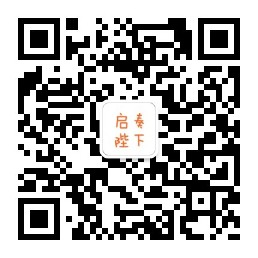
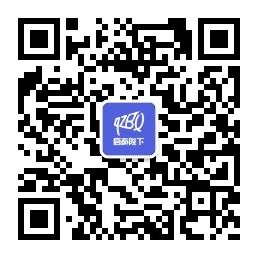
更新细节

Changed region(s): [[0.3721, 0.3721, 0.6202, 0.6202]]

diff --git a/_includes/header.html b/_includes/header.html
@@ -12,9 +12,7 @@
       {% endif %}
     {% endfor %}
     <a class="blog-logo" href="https://github.com/greedying/" target="_blank">github</a>
-    <a class="blog-logo" href="http://shishiyue.zuzuzuya.com/" target="_blank">事事约</a>
-
-    <label for="menu-checkbox" class="toggle-button" data-open="☰" data-close="☰" onclick></label>
+    <a class="blog-logo" href="{{ site.baseurl }}/qizoubixia/" target="_blank">启奏陛下</a>
   </nav>
 
 </header>

diff --git a/qizoubixia.md b/qizoubixia.md
@@ -1,0 +1,17 @@
+---
+layout: page
+title: "启奏陛下"
+crawlertitle: "启奏陛下"
+permalink: /qizoubixia/
+summary: "启奏陛下"
+active: "启奏陛下"
+---
+
+### 启奏陛下
+
+我的公众号**启奏陛下**，欢迎支持
+这是一个提供“一句话新闻”的网站，没有标题党，题目即内容，**极其高效**的获取有效资讯信息
+
+扫描以下二维码关注
+<img alt="启奏陛下" title="启奏陛下" style="width=50%;"  src="{{ site.images }}/qizou.jpg" />
+
